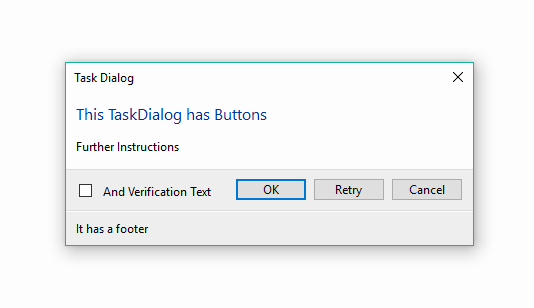
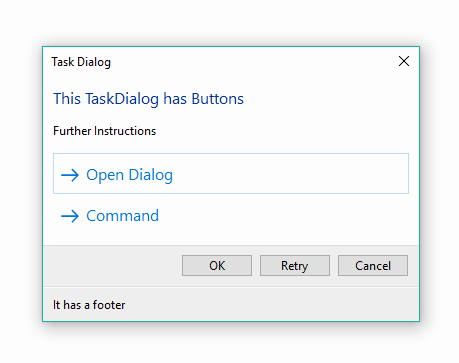
Update Documentation

Changed region(s): [[0.061, 0.1169, 0.9455, 0.9351]]

diff --git a/tests/rpw.extension/rpw.tab/rpw.panel/TaskDialog.pushbutton/TaskDialog_script.py b/tests/rpw.extension/rpw.tab/rpw.panel/TaskDialog.pushbutton/TaskDialog_script.py
@@ -28,104 +28,108 @@ from rpw.utils.logger import logger
 
 class TaskDialogTests(unittest.TestCase):
 
-    def test_basic(self):
-        commands = [CommandLink('Select This Option', return_value='XXX',
-                                subtext='Subtext 1'),
-                    CommandLink('Option 2 - Should see subtext',
-                                subtext='Subtext 2')
-                    ]
+    # def test_basic(self):
+    #     commands = [CommandLink('Select This Option', return_value='XXX',
+    #                             subtext='Subtext 1'),
+    #                 CommandLink('Option 2 - Should see subtext',
+    #                             subtext='Subtext 2')
+    #                 ]
 
-        dialog = TaskDialog('Test 1 - Full',
-                            title='My Title - Footer is ON. No Close Btn',
-                            content='X Close IS SHOWING',
-                            footer='Foot Text',
-                            verification_text='Check This',
-                            show_close=True,
-                            commands=commands)
-        result = dialog.show()
-        self.assertEqual(result, 'XXX')
-        self.assertEqual(dialog.Title, 'My Title - Footer is ON. No Close Btn')
-        self.assertEqual(dialog.MainInstruction, 'Test 1 - Full')
-        self.assertEqual(dialog.MainContent, 'X Close IS SHOWING')
-        self.assertEqual(dialog.FooterText, 'Foot Text')
-        self.assertEqual(dialog.verification_checked, True)
+    #     dialog = TaskDialog('Test 1 - Full',
+    #                         title='My Title - Footer is ON. No Close Btn',
+    #                         content='X Close IS SHOWING',
+    #                         footer='Foot Text',
+    #                         verification_text='Check This',
+    #                         show_close=True,
+    #                         commands=commands)
+    #     result = dialog.show()
+    #     self.assertEqual(result, 'XXX')
+    #     self.assertEqual(dialog.Title, 'My Title - Footer is ON. No Close Btn')
+    #     self.assertEqual(dialog.MainInstruction, 'Test 1 - Full')
+    #     self.assertEqual(dialog.MainContent, 'X Close IS SHOWING')
+    #     self.assertEqual(dialog.FooterText, 'Foot Text')
+    #     self.assertEqual(dialog.verification_checked, True)
 
-    def test_func_return_value(self):
-            commands = [CommandLink('Select This Option',
-                            return_value=lambda: 'ZZZ',
-                            subtext='Subtext 1'),
-                        CommandLink('Option 2', subtext='Subtext 2')
-                        ]
-            dialog = TaskDialog('Test 2 - Simple',
-                                verification_text='Leave this off',
-                                commands=commands,
-                                content='X Close Should NOT be Showing',
-                                show_close=False)
-            result = dialog.show()
-            self.assertEqual(result(), 'ZZZ')
-            self.assertEqual(dialog.verification_checked, False)
+    # def test_func_return_value(self):
+    #         commands = [CommandLink('Select This Option',
+    #                         return_value=lambda: 'ZZZ',
+    #                         subtext='Subtext 1'),
+    #                     CommandLink('Option 2', subtext='Subtext 2')
+    #                     ]
+    #         dialog = TaskDialog('Test 2 - Simple',
+    #                             verification_text='Leave this off',
+    #                             commands=commands,
+    #                             content='X Close Should NOT be Showing',
+    #                             show_close=False)
+    #         result = dialog.show()
+    #         self.assertEqual(result(), 'ZZZ')
+    #         self.assertEqual(dialog.verification_checked, False)
 
-    def test_func_defaultvalue_button(self):
-            commands = [CommandLink('Press This Button')]
-            dialog = TaskDialog('Test 3',
-                                content='Press Button Below',
-                                commands=commands,
-                                buttons=['Cancel'])
-            result = dialog.show()
-            self.assertEqual(result, 'Press This Button')
-            self.assertEqual(dialog.verification_checked, None)
+    # def test_func_defaultvalue_button(self):
+    #         commands = [CommandLink('Press This Button')]
+    #         dialog = TaskDialog('Test 3',
+    #                             content='Press Button Below',
+    #                             commands=commands,
+    #                             buttons=['Cancel'])
+    #         result = dialog.show()
+    #         self.assertEqual(result, 'Press This Button')
+    #         self.assertEqual(dialog.verification_checked, None)
 
-    def test_func_all_buttons_retry(self):
-            dialog = TaskDialog('Test 4',
-                                content='Press Retry',
-                                buttons=['Ok', 'Yes', 'No',
-                                         'Cancel', 'Retry', 'Close'])
-            result = dialog.show()
-            self.assertEqual(result, 'Retry')
+    # def test_func_all_buttons_retry(self):
+    #         dialog = TaskDialog('Test 4',
+    #                             content='Press Retry',
+    #                             buttons=['Ok', 'Yes', 'No',
+    #                                      'Cancel', 'Retry', 'Close'])
+    #         result = dialog.show()
+    #         self.assertEqual(result, 'Retry')
 
-    def test_func_all_buttons_close(self):
-            dialog = TaskDialog('Test 5',
-                                content='Press Close',
-                                buttons=['Ok', 'Yes', 'No',
-                                         'Cancel', 'Retry', 'Close'])
-            result = dialog.show()
-            self.assertEqual(result, 'Close')
+    # def test_func_all_buttons_close(self):
+    #         dialog = TaskDialog('Test 5',
+    #                             content='Press Close',
+    #                             buttons=['Ok', 'Yes', 'No',
+    #                                      'Cancel', 'Retry', 'Close'])
+    #         result = dialog.show()
+    #         self.assertEqual(result, 'Close')
 
-    def test_func_all_buttons_cancel(self):
-            dialog = TaskDialog('Test 6',
-                                content='Press Cancel',
-                                buttons=['Ok', 'Yes', 'No',
-                                         'Cancel', 'Retry', 'Close'])
-            result = dialog.show()
-            self.assertEqual(result, None)
+    # def test_func_all_buttons_cancel(self):
+    #         dialog = TaskDialog('Test 6',
+    #                             content='Press Cancel',
+    #                             buttons=['Ok', 'Yes', 'No',
+    #                                      'Cancel', 'Retry', 'Close'])
+    #         result = dialog.show()
+    #         self.assertEqual(result, None)
 
-    def test_close(self):
-            dialog = TaskDialog('Test 7 - Exit',
-                                content="Close Using X",
-                                buttons=[],
-                                show_close=True)
-            with self.assertRaises(SystemExit):
-                result = dialog.show(exit=True)
-
-    def test_close_cancel(self):
-            dialog = TaskDialog('Test 8 - Exit',
-                                content="Close Using Cancel",
-                                buttons=['Cancel'],
-                                show_close=False)
-            with self.assertRaises(SystemExit):
-                result = dialog.show(exit=True)
-
-
-    # def test_close_for_docs(self):
-    #         dialog = TaskDialog('This TaskDialog has Buttons ',
-    #                             title_prefix=False,
-    #                             content="Further Instructions",
-    #                             buttons=['Cancel', 'OK', 'RETRY'],
-    #                             footer='It has a footer',
-    #                             # verification_text='And Verification Text',
-    #                             # expanded_content='And Expanded Content',
+    # def test_close(self):
+    #         dialog = TaskDialog('Test 7 - Exit',
+    #                             content="Close Using X",
+    #                             buttons=[],
     #                             show_close=True)
-    #         dialog.show()
+    #         with self.assertRaises(SystemExit):
+    #             result = dialog.show(exit=True)
+
+    # def test_close_cancel(self):
+    #         dialog = TaskDialog('Test 8 - Exit',
+    #                             content="Close Using Cancel",
+    #                             buttons=['Cancel'],
+    #                             show_close=False)
+    #         with self.assertRaises(SystemExit):
+    #             result = dialog.show(exit=True)
+
+
+    def test_close_for_docs(self):
+            commands= [CommandLink('Open Dialog', return_value='Open'),
+                       CommandLink('Command', return_value=lambda: True)]
+
+            dialog = TaskDialog('This TaskDialog has Buttons ',
+                                title_prefix=False,
+                                content="Further Instructions",
+                                commands=commands,
+                                buttons=['Cancel', 'OK', 'RETRY'],
+                                footer='It has a footer',
+                                # verification_text='And Verification Text',
+                                # expanded_content='And Expanded Content',
+                                show_close=True)
+            dialog.show()
 
 class AlertTests(unittest.TestCase):
 

diff --git a/rpw/ui/forms/taskdialog.py b/rpw/ui/forms/taskdialog.py
@@ -60,12 +60,20 @@ class TaskDialog(BaseObjectWrapper):
     """
     Task Dialog Wrapper
 
-    >>> commands= [
-    ...             CommandLink('Open Dialog', return_value='Open'),
-    ...             CommandLink('Another Command', return_value=call_back_func)
-    ...            ]
-    >>> dialog = TaskDialog(command_links=commands, buttons='Yes')
-    >>> result = dialog.show()
+    >>> commands= [CommandLink('Open Dialog', return_value='Open'),
+    >>> ...           CommandLink('Command', return_value=lambda: True)]
+    >>> ...
+    >>> dialog = TaskDialog('This TaskDialog has Buttons ',
+    >>> ...                 title_prefix=False,
+    >>> ...                 content="Further Instructions",
+    >>> ...                 commands=commands,
+    >>> ...                 buttons=['Cancel', 'OK', 'RETRY'],
+    >>> ...                 footer='It has a footer',
+    >>> ...                 # verification_text='Add Verification Checkbox',
+    >>> ...                 # expanded_content='Add Expanded Content',
+    >>> ...                 show_close=True)
+    >>> dialog.show()
+    'Open'
 
     Wrapped Element:
         self._revit_object = `Revit.UI.TaskDialog`
